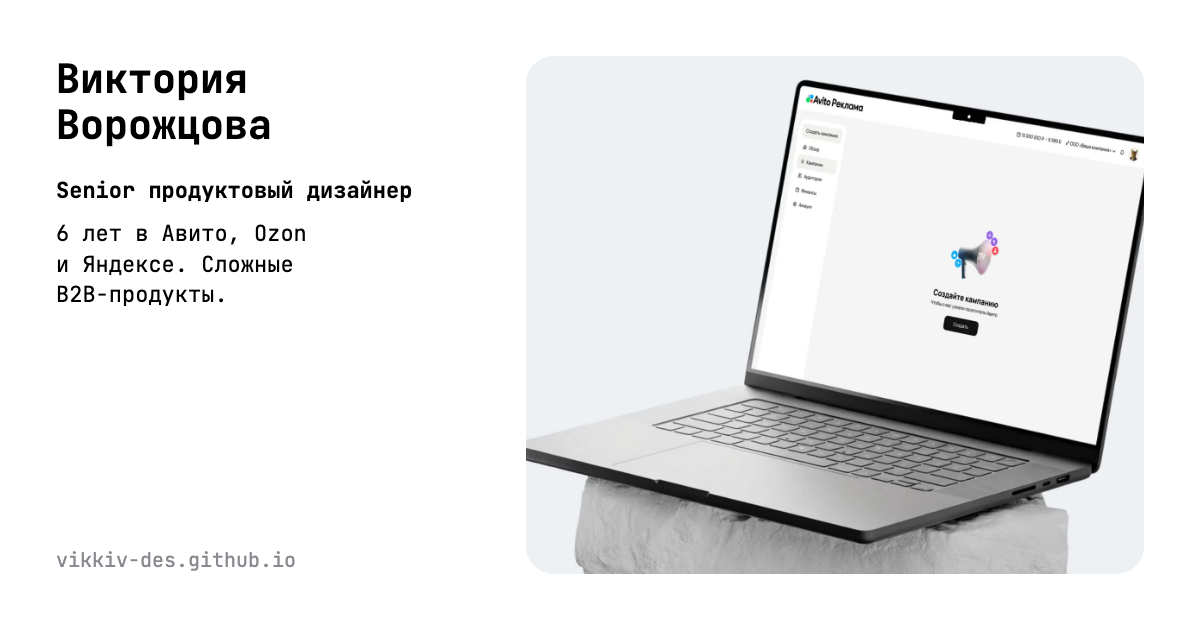
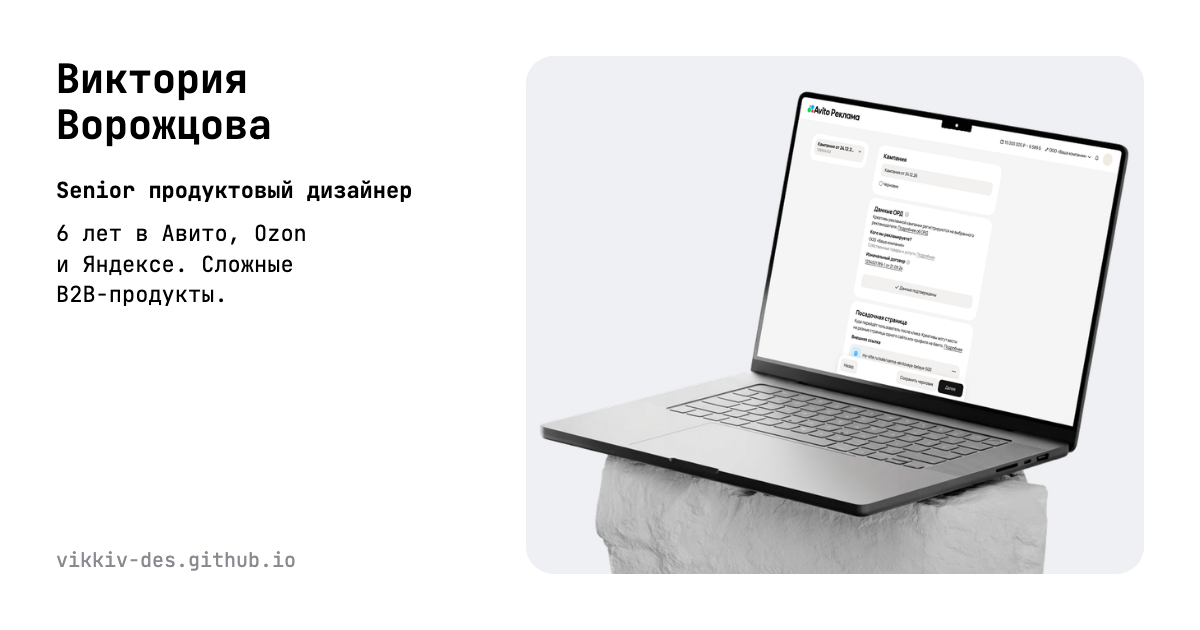
Превью для соцсетей: ноутбук целиком

Changed region(s): [[0.4317, 0.1206, 0.9558, 0.9349], [0.7092, 0.3317, 0.8325, 0.573], [0.74, 0.2413, 0.7708, 0.3016]]

diff --git a/cases/cabinet.html b/cases/cabinet.html
@@ -10,7 +10,7 @@
   <meta property="og:locale" content="ru_RU">
   <meta property="og:title" content="Запуск кабинета Авито Рекламы — Виктория Ворожцова">
   <meta property="og:description" content="Спроектировала рекламный кабинет Авито с нуля и запустила его за 9 месяцев вместо года.">
-  <meta property="og:image" content="https://vikkiv-des.github.io/assets/img/og.png">
+  <meta property="og:image" content="https://vikkiv-des.github.io/assets/img/og.png?v=2">
   <meta property="og:image:width" content="1200">
   <meta property="og:image:height" content="630">
   <meta property="og:url" content="https://vikkiv-des.github.io/cases/cabinet.html">

diff --git a/cases/landing.html b/cases/landing.html
@@ -10,7 +10,7 @@
   <meta property="og:locale" content="ru_RU">
   <meta property="og:title" content="Лендинг Авито Рекламы — Виктория Ворожцова">
   <meta property="og:description" content="Пересобрала промостраницу Авито Рекламы за 7 дней — конверсия в регистрацию выросла в 2 раза.">
-  <meta property="og:image" content="https://vikkiv-des.github.io/assets/img/og.png">
+  <meta property="og:image" content="https://vikkiv-des.github.io/assets/img/og.png?v=2">
   <meta property="og:image:width" content="1200">
   <meta property="og:image:height" content="630">
   <meta property="og:url" content="https://vikkiv-des.github.io/cases/landing.html">

diff --git a/index.html b/index.html
@@ -10,7 +10,7 @@
   <meta property="og:locale" content="ru_RU">
   <meta property="og:title" content="Виктория Ворожцова — продуктовый дизайнер">
   <meta property="og:description" content="Senior продуктовый дизайнер. Запустила рекламный кабинет Авито с нуля за 9 месяцев.">
-  <meta property="og:image" content="https://vikkiv-des.github.io/assets/img/og.png">
+  <meta property="og:image" content="https://vikkiv-des.github.io/assets/img/og.png?v=2">
   <meta property="og:image:width" content="1200">
   <meta property="og:image:height" content="630">
   <meta property="og:url" content="https://vikkiv-des.github.io/">

diff --git a/about.html b/about.html
@@ -10,7 +10,7 @@
   <meta property="og:locale" content="ru_RU">
   <meta property="og:title" content="Обо мне — Виктория Ворожцова">
   <meta property="og:description" content="Продуктовый дизайнер, 6 лет в профессии. Авито, Яндекс Практикум, Zebrains, Ozon.">
-  <meta property="og:image" content="https://vikkiv-des.github.io/assets/img/og.png">
+  <meta property="og:image" content="https://vikkiv-des.github.io/assets/img/og.png?v=2">
   <meta property="og:image:width" content="1200">
   <meta property="og:image:height" content="630">
   <meta property="og:url" content="https://vikkiv-des.github.io/about.html">
